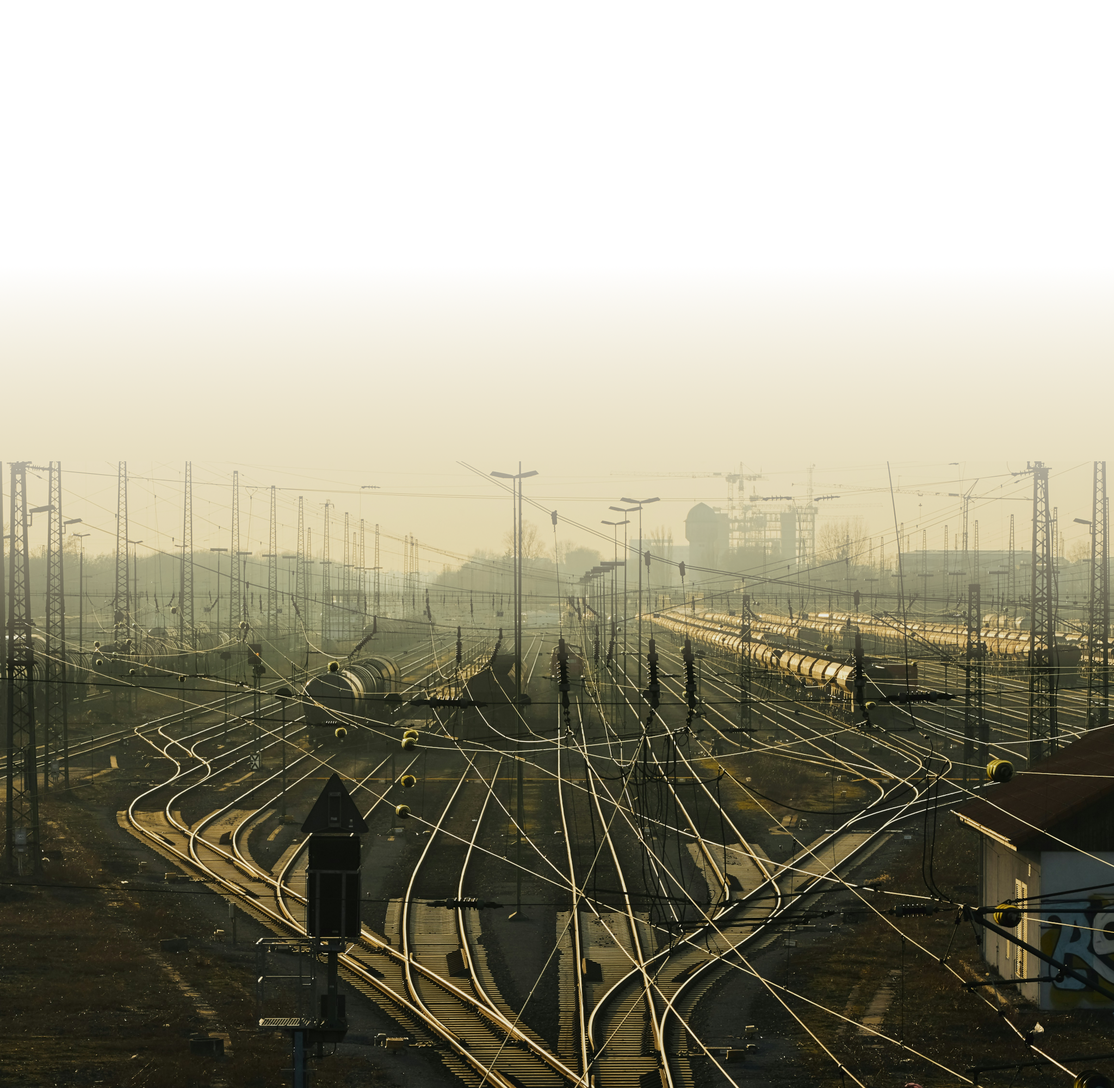
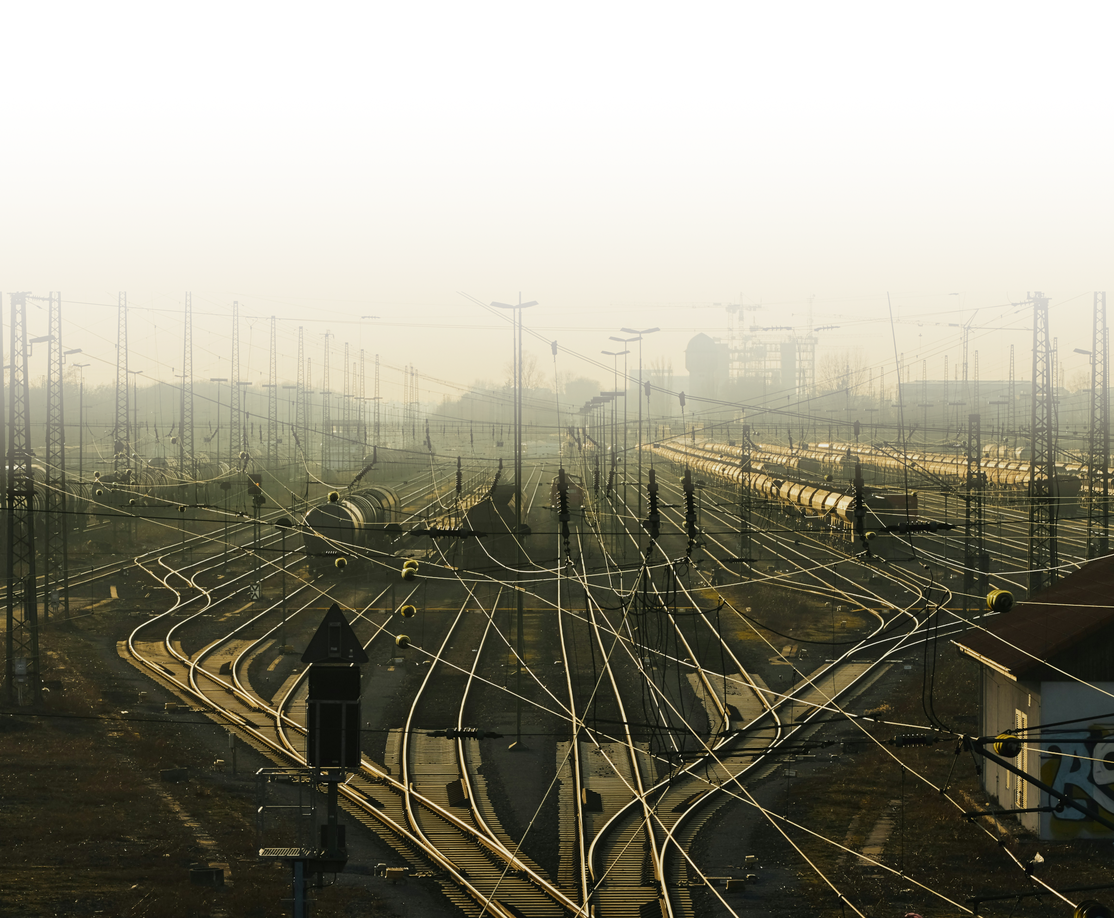
tweaked image

diff --git a/docs/index.md b/docs/index.md
@@ -30,11 +30,13 @@ hide:
 /* Custom container for your styled paragraphs */
 .paragraph-bg-box {
     background-size: cover;
-    background-position: center;
+    background-position-x: center;
+    background-position-y: top;
     background-repeat: no-repeat;
     padding: 20px;          /* Adds space inside the box so text doesn't touch edges */
     border-radius: 8px;     /* Optional: rounds the corners */
-    color: black;         /* Optional: changes text color if background is dark */
+    color: black;
+    margin-bottom: 1em;
 }
 
 </style>
@@ -43,10 +45,9 @@ hide:
 
 <img alt="DCC-EX" src="./_static/images/logos/logo_with_border.png" width="200px" style="display:block; margin-left:auto; margin-right:auto;">
 
-<span style="display:block; margin-left:10%; margin-right:10%; text-align:center;">
+<span style="display:block; margin-left:10%; margin-right:10%; text-align:center; line-height: 240%; margin-top: 1em;">
 <span style="font-size: 250%; font-weight:900; text-align:center;">Free and open source control systems for DCC and DC model rail enthusiasts</span>
 </span>
-
 <br/>
 
 <span style="font-size: 120%; font-weight:700; display:block; margin-left:10%; margin-right:10%;"><span style="font-style:italic;">"This is a team of volunteers who love model railroading, who wanted to design a new highly capable system for model railroads - and they've done it"</span><br/>- DIY and Digital Railroad</span>
@@ -64,9 +65,7 @@ hide:
 <br/>
 <br/>
 
-</div>
-
-<br/>
+</div><br/><br/>
 
 # Home
 
